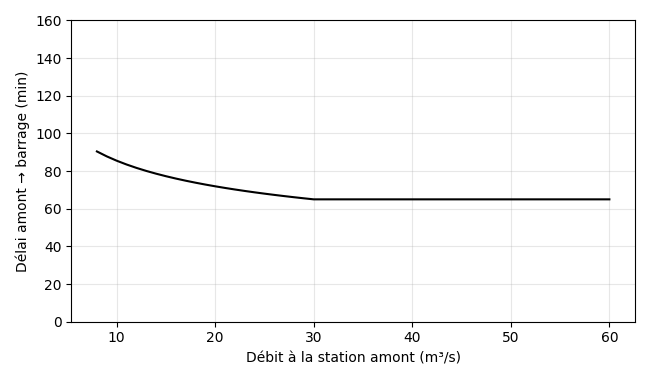
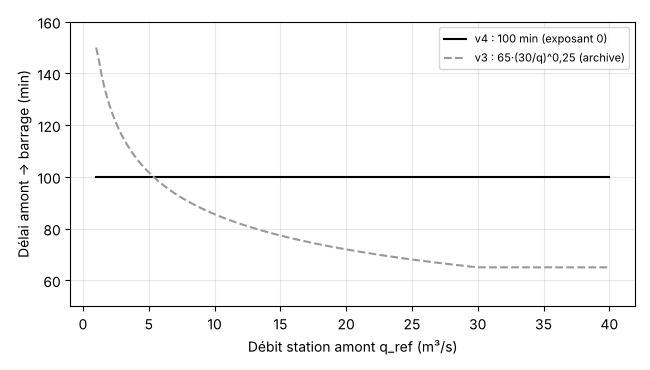
feat: recalibrage propagation depuis la station de référence

diff --git a/apps/web/src/composables/useExploit.spec.ts b/apps/web/src/composables/useExploit.spec.ts
@@ -2,6 +2,7 @@ import { beforeEach, describe, expect, it, vi } from 'vitest'
 import { nextTick } from 'vue'
 import { DEFAULT_TURBINE_MODEL, STORAGE_KEYS } from '@/domain/constants'
 import { cloneTurbineModel } from '@/domain/turbineModel'
+import { TEST_TURBINE_MODEL } from '@/test/turbineFixture'
 import { useExploit } from './useExploit'
 import { useStations } from './useStations'
 
@@ -45,7 +46,8 @@ describe('useExploit', () => {
 
   it('expose les seuils du modèle en débit au barrage et vus de la station de référence', () => {
     expect(exploit.modelConfig.value.startFlow).toBeCloseTo(11.49, 2)
-    expect(exploit.refConfig.value.startFlow).toBeGreaterThan(exploit.modelConfig.value.startFlow)
+    const { defaultGain, defaultOffset } = exploit.turbineModel.value
+    expect(exploit.refConfig.value.startFlow).toBeCloseTo((exploit.modelConfig.value.startFlow - defaultOffset) / defaultGain, 2)
     expect(exploit.refConfig.value.refCode).toBe(DEFAULT_TURBINE_MODEL.refCode)
   })
 
@@ -89,6 +91,7 @@ describe('useExploit · prévision', () => {
   })
 
   it('déduit l’état de la turbine du débit observé, sans saisie', () => {
+    exploit.turbineModel.value = cloneTurbineModel(TEST_TURBINE_MODEL)
     stations.stateOf(DEFAULT_TURBINE_MODEL.refCode).flowPoints = flat(40)
     expect(exploit.production(NOW).outlook).toMatchObject({ kind: 'run-stable', turbine: 'run' })
 

diff --git a/apps/web/src/domain/turbineSettings.ts b/apps/web/src/domain/turbineSettings.ts
@@ -31,7 +31,7 @@ export const TURBINE_FIELDS: SettingField[] = [
   { path: 'rampKwPerMin', label: 'Vitesse de rampe', unit: 'kW/min', hint: 'Montée et descente de la puissance (0 = instantané)', group: 'behavior', step: 0.5, min: 0 },
   { path: 'reducedPowerKw', label: 'Puissance en régime réduit', unit: 'kW', group: 'behavior', step: 10, min: 0 },
   { path: 'reducedMin', label: 'Durée du régime réduit', unit: 'min', hint: '0 tant qu’elle est inconnue', group: 'behavior', step: 1, min: 0 },
-  { path: 'defaultGain', label: 'Gain amont → barrage', unit: '', hint: 'Corrige le débit gonflé de la station de référence (travaux)', group: 'advanced', step: 0.01, min: 0 },
+  { path: 'defaultGain', label: 'Gain amont → barrage', unit: '', hint: 'Débit au barrage = gain × débit de la station de référence + décalage', group: 'advanced', step: 0.01, min: 0 },
   { path: 'defaultOffset', label: 'Décalage amont → barrage', unit: 'm³/s', group: 'advanced', step: 0.1 },
   { path: 'calibrationWeight', label: 'Poids du calage sur l’aval', unit: '0 à 1', hint: '0 = valeurs par défaut seules, 1 = calage seul', group: 'advanced', step: 0.1, min: 0, max: 1 },
   { path: 'lag.refMin', label: 'Délai de propagation de référence', unit: 'min', hint: 'Station amont → turbine, à fort débit', group: 'advanced', step: 1, min: 0 },

diff --git a/apps/web/src/domain/siteFlow.spec.ts b/apps/web/src/domain/siteFlow.spec.ts
@@ -1,5 +1,6 @@
 import { describe, expect, it } from 'vitest'
-import { DEFAULT_TURBINE_MODEL as M } from './constants'
+import { TEST_TURBINE_MODEL as M } from '../test/turbineFixture'
+import { DEFAULT_TURBINE_MODEL as D } from './constants'
 import { calibrateSite, dropFrozen, lagMinutes, rideThrough, siteFlowSeries } from './siteFlow'
 import type { SeriesPoint, SiteCalibration } from './types'
 
@@ -180,5 +181,14 @@ describe('rideThrough', () => {
   it('sans durée de maintien, la série est inchangée', () => {
     const s = series(60)
     expect(rideThrough(s, 12.55, 0)).toBe(s)
+  })
+})
+
+describe('calage par défaut (analyse du 22/11/2026)', () => {
+  it('convertit le pic de 15,8 m³/s de Lavaur en ~23,4 m³/s au barrage, 100 min plus tard', () => {
+    const cal: SiteCalibration = { gain: D.defaultGain, offset: D.defaultOffset, sigma: 1, pairs: 0, fitted: false }
+    const [p] = siteFlowSeries([{ t: new Date(NOW).toISOString(), y: 15.8 }], cal, D)
+    expect(p!.y).toBeCloseTo(23.38, 1)
+    expect(Date.parse(p!.t) - NOW).toBe(100 * MIN)
   })
 })

diff --git a/apps/web/src/domain/turbineSettings.spec.ts b/apps/web/src/domain/turbineSettings.spec.ts
@@ -1,5 +1,6 @@
 import { describe, expect, it } from 'vitest'
 import { DEFAULT_TURBINE_MODEL } from './constants'
+import { startFlowOf } from './turbineModel'
 import { getSetting, refSpaceConfig, setSetting, toRefFlow, TURBINE_FIELDS, turbinePreview, validateTurbineModel } from './turbineSettings'
 import type { TurbineModel } from './types'
 
@@ -125,9 +126,10 @@ describe('station de référence : équivalence des débits', () => {
   it('exprime les seuils du modèle en débit de la station de référence', () => {
     const c = refSpaceConfig(fresh())
     expect(c.refCode).toBe('O469251003')
-    expect(c.startFlow).toBeCloseTo(22.24, 1)
+    const m = fresh()
+    expect(c.startFlow).toBeCloseTo((startFlowOf(m) - m.defaultOffset) / m.defaultGain, 2)
     expect(c.minFlow).toBeLessThanOrEqual(c.startFlow)
     expect(c.maxFlow).toBeGreaterThan(c.startFlow)
-    expect(c.propagationMin).toBe(65)
+    expect(c.propagationMin).toBe(m.lag.refMin)
   })
 })

diff --git a/apps/web/src/components/exploitation/ExploitPanel.spec.ts b/apps/web/src/components/exploitation/ExploitPanel.spec.ts
@@ -3,6 +3,8 @@ import { mount } from '@vue/test-utils'
 import { nextTick } from 'vue'
 import { DEFAULT_TURBINE_MODEL } from '@/domain/constants'
 import { useExploit } from '@/composables/useExploit'
+import { cloneTurbineModel } from '@/domain/turbineModel'
+import { TEST_TURBINE_MODEL } from '@/test/turbineFixture'
 import { useStations } from '@/composables/useStations'
 import { useTimeRange } from '@/composables/useTimeRange'
 import type { SeriesPoint } from '@/domain/types'
@@ -36,6 +38,7 @@ const tile = (w: Wrapper, label: string) => w.findAll('.tile').find((t) => t.att
 beforeEach(async () => {
   stations.reset()
   exploit.reset()
+  exploit.turbineModel.value = cloneTurbineModel(TEST_TURBINE_MODEL)
   stations.syncStates()
   range.setHours(3)
   await nextTick()

diff --git a/apps/web/src/test/turbineFixture.ts b/apps/web/src/test/turbineFixture.ts
@@ -1,0 +1,15 @@
+import { DEFAULT_TURBINE_MODEL } from '@/domain/constants'
+import { cloneTurbineModel } from '@/domain/turbineModel'
+import type { TurbineModel } from '@/domain/types'
+
+/**
+ * Modèle de test figé : les paramètres de conversion amont → barrage et de délai de la v3 (gain 0,67, décalage
+ * −3,4 m³/s, délai de 65 min dépendant du débit). Les tests de mécanisme (délai, conversion, états, prévision) n'ont
+ * pas à bouger à chaque recalage : seuls les tests portant sur les valeurs par défaut lisent `DEFAULT_TURBINE_MODEL`.
+ */
+export const TEST_TURBINE_MODEL: TurbineModel = {
+  ...cloneTurbineModel(DEFAULT_TURBINE_MODEL),
+  defaultGain: 0.67,
+  defaultOffset: -3.4,
+  lag: { refMin: 65, refFlow: 30, exponent: 0.25, maxMin: 150 },
+}

diff --git a/apps/web/src/domain/siteFlow.ts b/apps/web/src/domain/siteFlow.ts
@@ -14,7 +14,7 @@ const MIN_GAIN_SPREAD = 2
 const DEFAULT_SIGMA = 2.5
 const MIN_SIGMA = 0.5
 /** Bornes du gain : le rapport entre les deux stations varie (travaux, repartition des apports), pas de facon extreme. */
-const GAIN_BOUNDS = [0.35, 0.9] as const
+const GAIN_BOUNDS = [0.35, 1.5] as const
 /**
  * Duree (min) a partir de laquelle une valeur strictement identique est consideree figee (capteur bloque, valeur
  * de remplacement) : sur un cours d'eau qui bouge, la meme valeur plus de 90 min est suspecte.

diff --git a/apps/web/src/domain/turbineModel.spec.ts b/apps/web/src/domain/turbineModel.spec.ts
@@ -165,12 +165,13 @@ describe('normTurbineModel', () => {
 
 describe('cloneTurbineModel', () => {
   it('ne partage aucun objet imbriqué avec l’original', () => {
+    const refMin = M.lag.refMin
     const c = cloneTurbineModel(M)
     expect(c).toEqual(M)
     c.lag.refMin = 1
     c.tailRating.a = 1
     c.efficiencyCurve[0]![1] = 0.1
-    expect(M.lag.refMin).toBe(65)
+    expect(M.lag.refMin).toBe(refMin)
     expect(M.tailRating.a).toBe(0.0476)
     expect(M.efficiencyCurve[0]![1]).toBe(0.05)
   })

diff --git a/apps/web/src/domain/constants.ts b/apps/web/src/domain/constants.ts
@@ -101,10 +101,10 @@ export const DEFAULT_TURBINE_MODEL: TurbineModel = {
   tailRefLevel: 0.45,
   headCorrection: 0,
   tailRating: { a: 0.0476, b: 1 },
-  lag: { refMin: 65, refFlow: 30, exponent: 0.25, maxMin: 150 },
+  lag: { refMin: 100, refFlow: 30, exponent: 0, maxMin: 150 },
   downLagRatio: 17.73 / 15.35,
-  defaultGain: 0.67,
-  defaultOffset: -3.4,
+  defaultGain: 1.1,
+  defaultOffset: 6,
   fitGain: false,
   calibrationWeight: 0,
   optimalShare: 0.8,

diff --git a/apps/web/src/components/exploitation/ExploitForecastCard.spec.ts b/apps/web/src/components/exploitation/ExploitForecastCard.spec.ts
@@ -1,6 +1,6 @@
 import { describe, expect, it } from 'vitest'
 import { mount } from '@vue/test-utils'
-import { DEFAULT_TURBINE_MODEL as M } from '@/domain/constants'
+import { TEST_TURBINE_MODEL as M } from '@/test/turbineFixture'
 import { fmtClock } from '@/domain/format'
 import { turbineForecast } from '@/domain/turbineForecast'
 import type { SeriesPoint } from '@/domain/types'

diff --git a/apps/web/src/domain/turbineForecast.spec.ts b/apps/web/src/domain/turbineForecast.spec.ts
@@ -1,5 +1,5 @@
 import { describe, expect, it } from 'vitest'
-import { DEFAULT_TURBINE_MODEL as M } from './constants'
+import { TEST_TURBINE_MODEL as M } from '../test/turbineFixture'
 import { normalCdf, probabilityIn, runningMin, turbineForecast } from './turbineForecast'
 import { powerKw } from './turbineModel'
 import type { SeriesPoint } from './types'

diff --git a/apps/web/pwa.config.ts b/apps/web/pwa.config.ts
@@ -11,6 +11,7 @@ export const pwaOptions: Partial<VitePWAOptions> = {
     short_name: 'Hydroflow',
     description: 'Suivi et prévision de production hydroélectrique, St-Jean-de-Rive',
     lang: 'fr',
+    id: '/',
     start_url: '/',
     scope: '/',
     display: 'standalone',
